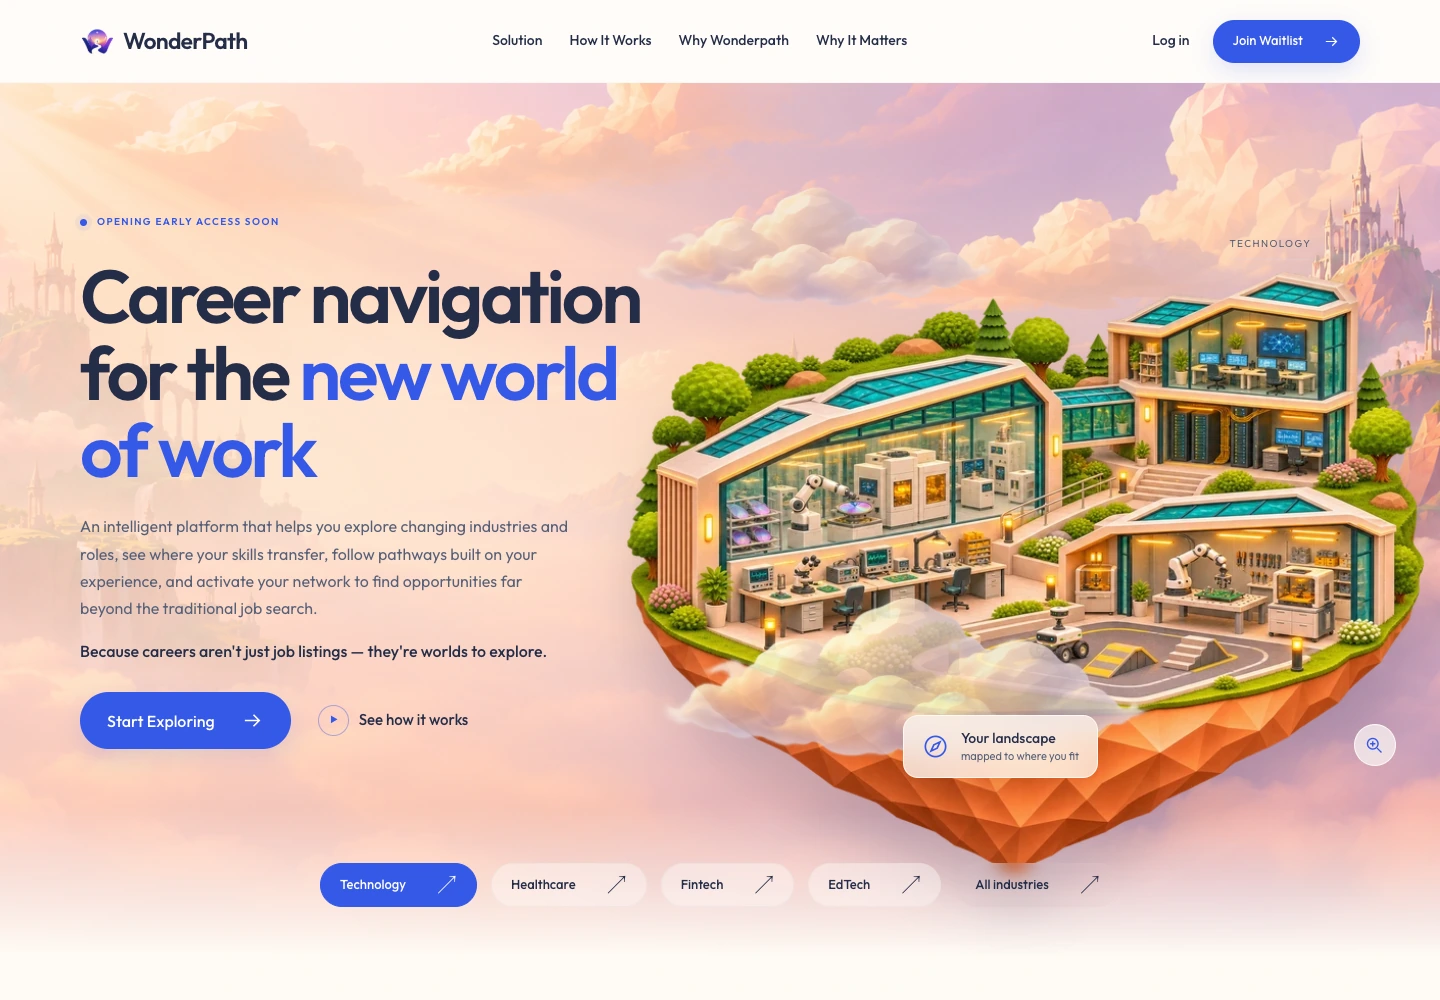
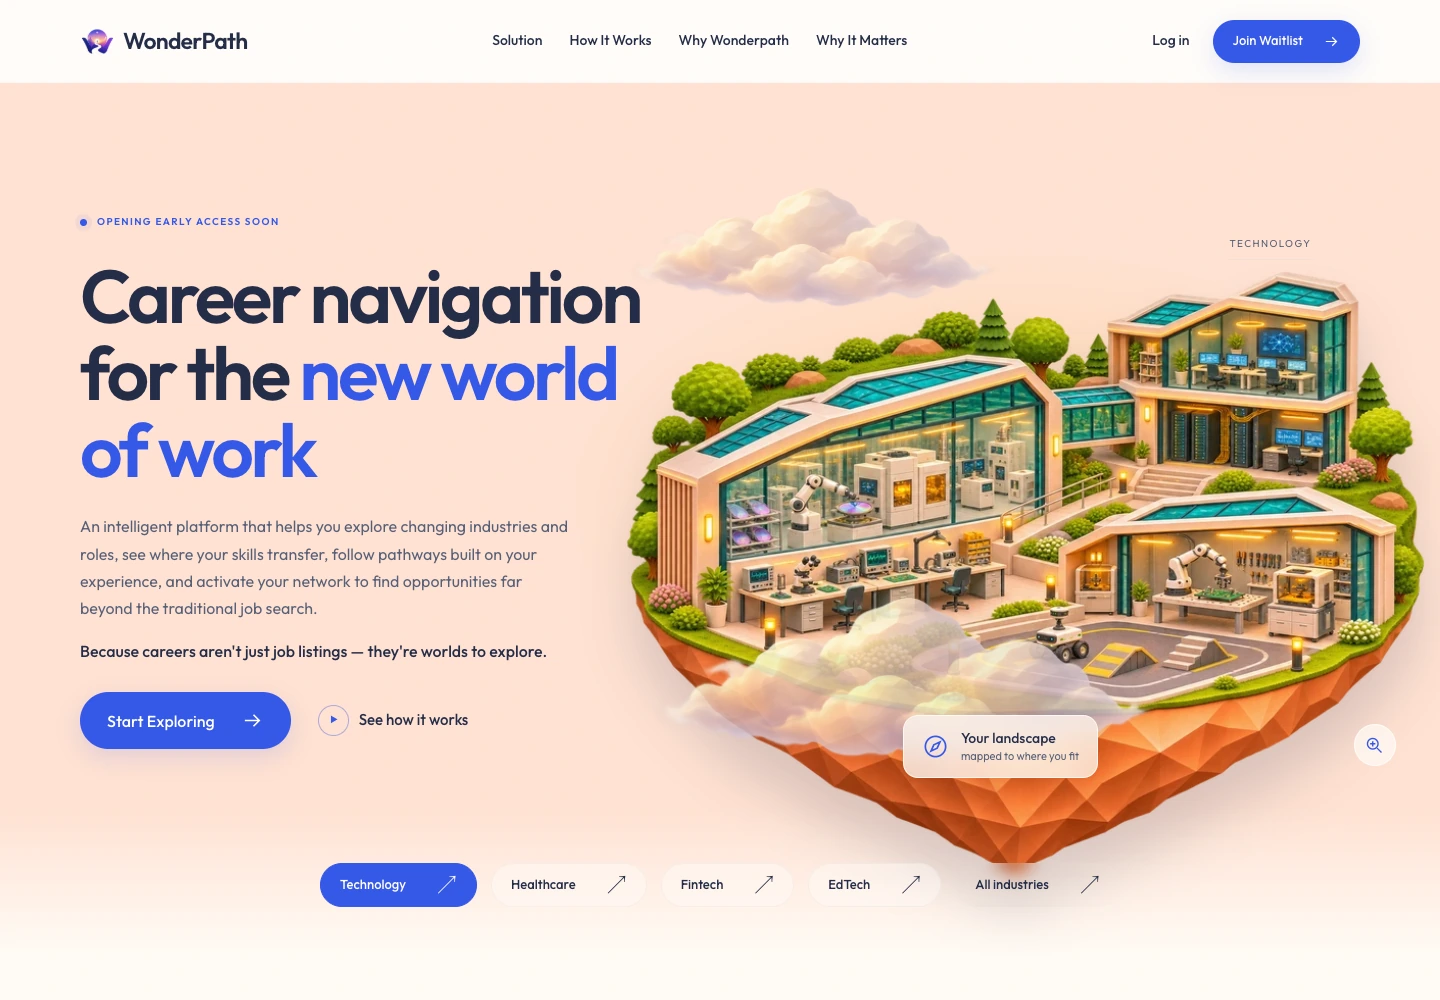
Remove scenic backgrounds from Skybound palette

diff --git a/public/design-assets/skybound.css b/public/design-assets/skybound.css
@@ -1,5 +1,7 @@
 /* WonderPath Skybound — palette-only experiment. Layout and artwork are shared with Dreamscape. */
 :root {
+  /* Keep the illustrated foreground; use color alone behind it. */
+  --sky-art: none;
   --bg: #FFFBF5;
   --paper: #FFFDF9;
   --ink: #252D48;
